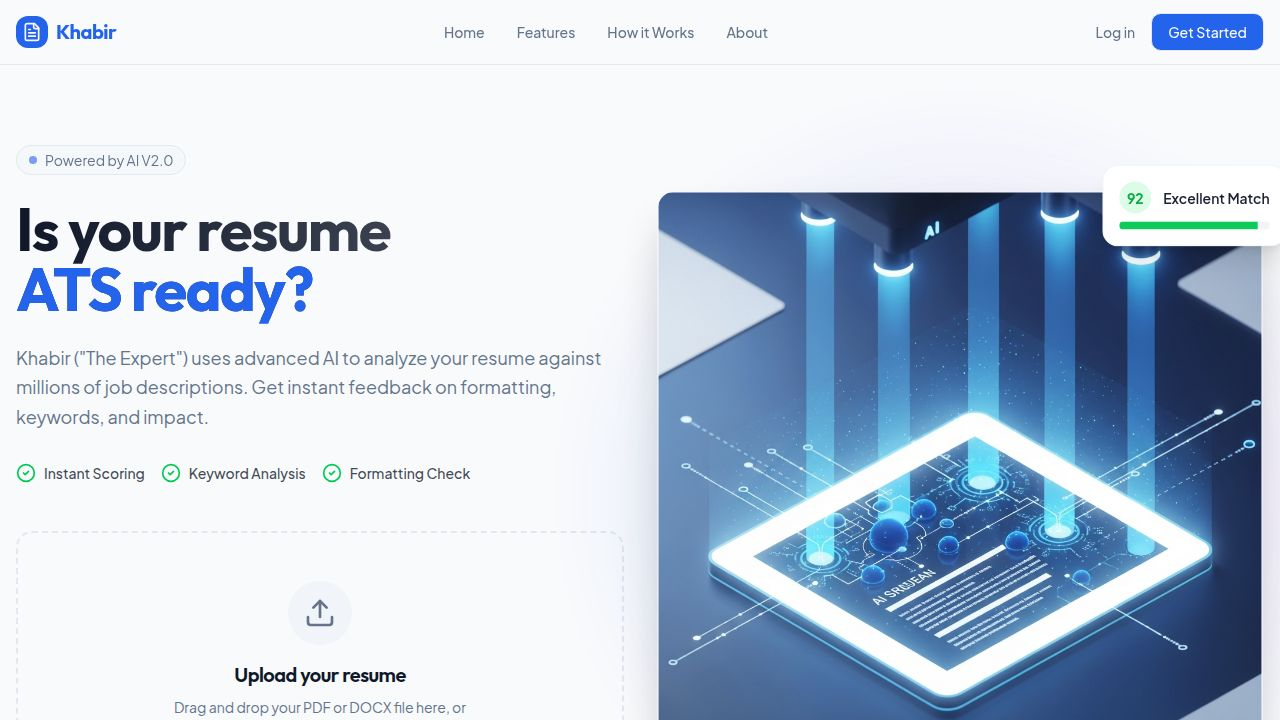
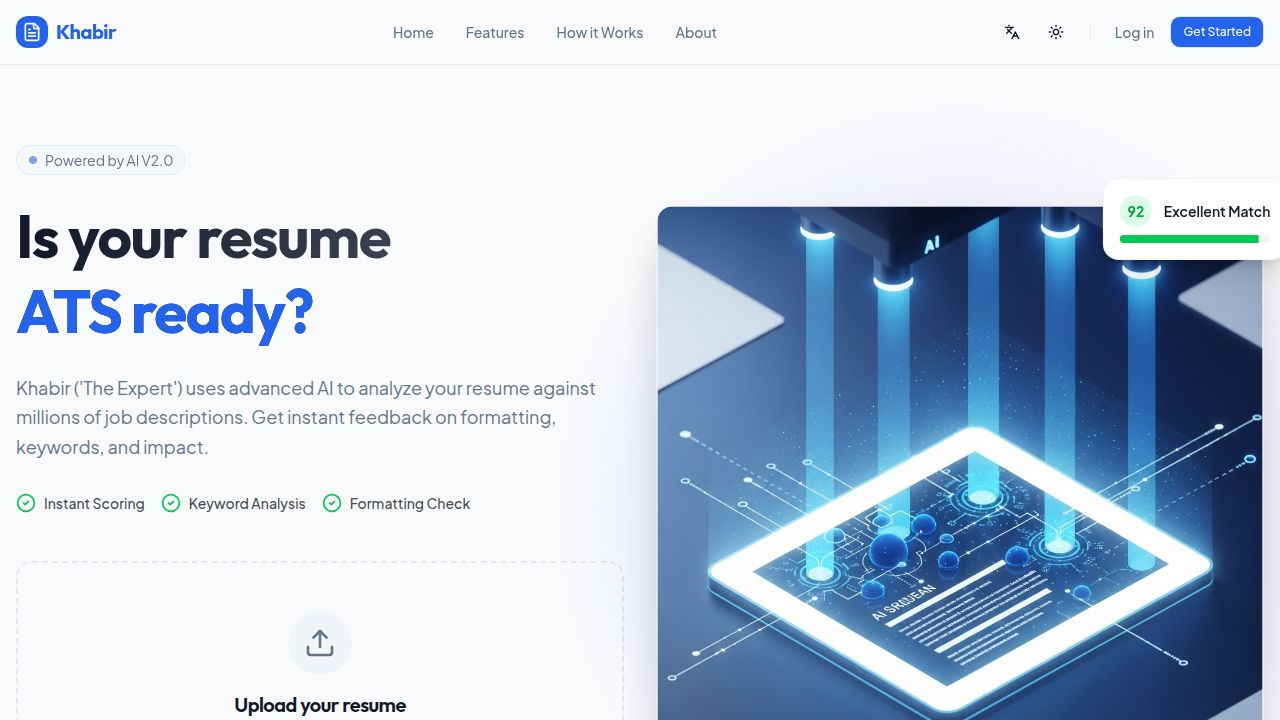
Add Arabic language support and RTL layout to the application
Implement comprehensive Arabic translations and Right-to-Left (RTL) layout adjustments across the Hero section, UploadZone component, and Home page, including dynamic language switching via a Navbar element.

Replit-Commit-Author: Agent
Replit-Commit-Session-Id: d67fe4a0-173e-436e-bb5b-6a13e077fa2e
Replit-Commit-Checkpoint-Type: full_checkpoint
Replit-Commit-Event-Id: 9b612d17-e10b-492f-8f70-dd483882ac61
Replit-Commit-Screenshot-Url: https://storage.googleapis.com/screenshot-production-us-central1/b7c34ca0-cc9a-4a40-aabc-a2c4bbe87384/d67fe4a0-173e-436e-bb5b-6a13e077fa2e/ZdRiNGw
Replit-Helium-Checkpoint-Created: true

diff --git a/client/src/pages/Home.tsx b/client/src/pages/Home.tsx
@@ -1,20 +1,46 @@
 import { Navbar } from "@/components/layout/Navbar";
 import { Hero } from "@/components/home/Hero";
 import { FileCheck, Zap, Target } from "lucide-react";
+import { useEffect, useState } from "react";
 
 export default function Home() {
+  const [isRtl, setIsRtl] = useState(false);
+
+  // Listen for language changes via document attribute
+  useEffect(() => {
+    const observer = new MutationObserver((mutations) => {
+      mutations.forEach((mutation) => {
+        if (mutation.type === 'attributes' && mutation.attributeName === 'dir') {
+          setIsRtl(document.documentElement.dir === 'rtl');
+        }
+      });
+    });
+
+    observer.observe(document.documentElement, { attributes: true });
+    setIsRtl(document.documentElement.dir === 'rtl');
+    
+    return () => observer.disconnect();
+  }, []);
+
   return (
     <div className="min-h-screen bg-background font-sans selection:bg-primary/20">
       <Navbar />
       
       <main>
-        <Hero />
+        <Hero key={isRtl ? 'rtl' : 'ltr'} />
         
         <section id="features" className="py-24 bg-muted/30">
           <div className="container px-4 mx-auto">
             <div className="text-center max-w-2xl mx-auto mb-16">
-              <h2 className="text-3xl font-heading font-bold mb-4">Why use Khabir?</h2>
-              <p className="text-muted-foreground">Stop guessing what recruiters want. Our AI analyzes your resume like an expert hiring manager.</p>
+              <h2 className="text-3xl font-heading font-bold mb-4">
+                {isRtl ? "لماذا تستخدم خبير؟" : "Why use Khabir?"}
+              </h2>
+              <p className="text-muted-foreground">
+                {isRtl 
+                  ? "توقف عن التخمين. يقوم ذكاؤنا الاصطناعي بتحليل سيرتك الذاتية تماماً مثل خبراء التوظيف."
+                  : "Stop guessing what recruiters want. Our AI analyzes your resume like an expert hiring manager."
+                }
+              </p>
             </div>
 
             <div className="grid md:grid-cols-3 gap-8">
@@ -22,24 +48,39 @@ export default function Home() {
                 <div className="h-12 w-12 rounded-lg bg-blue-100 text-blue-600 flex items-center justify-center mb-6">
                   <Zap className="h-6 w-6" />
                 </div>
-                <h3 className="text-xl font-bold mb-3">Instant Feedback</h3>
-                <p className="text-muted-foreground leading-relaxed">Get a detailed score and actionable feedback in seconds, not days.</p>
+                <h3 className="text-xl font-bold mb-3">{isRtl ? "تغذية راجعة فورية" : "Instant Feedback"}</h3>
+                <p className="text-muted-foreground leading-relaxed">
+                  {isRtl 
+                    ? "احصل على نتيجة مفصلة ونصائح قابلة للتنفيذ في ثوانٍ معدودة."
+                    : "Get a detailed score and actionable feedback in seconds, not days."
+                  }
+                </p>
               </div>
 
               <div className="bg-card p-8 rounded-2xl border shadow-sm hover:shadow-md transition-shadow">
                 <div className="h-12 w-12 rounded-lg bg-teal-100 text-teal-600 flex items-center justify-center mb-6">
                   <Target className="h-6 w-6" />
                 </div>
-                <h3 className="text-xl font-bold mb-3">ATS Optimization</h3>
-                <p className="text-muted-foreground leading-relaxed">Ensure your resume passes the automated filters used by 99% of Fortune 500 companies.</p>
+                <h3 className="text-xl font-bold mb-3">{isRtl ? "تحسين للـ ATS" : "ATS Optimization"}</h3>
+                <p className="text-muted-foreground leading-relaxed">
+                  {isRtl 
+                    ? "تأكد من تجاوز سيرتك الذاتية للفلاتر الآلية التي تستخدمها 99% من الشركات الكبرى."
+                    : "Ensure your resume passes the automated filters used by 99% of Fortune 500 companies."
+                  }
+                </p>
               </div>
 
               <div className="bg-card p-8 rounded-2xl border shadow-sm hover:shadow-md transition-shadow">
                 <div className="h-12 w-12 rounded-lg bg-purple-100 text-purple-600 flex items-center justify-center mb-6">
                   <FileCheck className="h-6 w-6" />
                 </div>
-                <h3 className="text-xl font-bold mb-3">Smart Suggestions</h3>
-                <p className="text-muted-foreground leading-relaxed">Our AI rewrites your bullet points to maximize impact and highlight your achievements.</p>
+                <h3 className="text-xl font-bold mb-3">{isRtl ? "اقتراحات ذكية" : "Smart Suggestions"}</h3>
+                <p className="text-muted-foreground leading-relaxed">
+                  {isRtl 
+                    ? "يعيد ذكاؤنا الاصطناعي صياغة نقاط خبرتك لتحقيق أقصى قدر من التأثير."
+                    : "Our AI rewrites your bullet points to maximize impact and highlight your achievements."
+                  }
+                </p>
               </div>
             </div>
           </div>
@@ -49,12 +90,12 @@ export default function Home() {
       <footer className="bg-card border-t py-12">
         <div className="container px-4 mx-auto flex flex-col md:flex-row justify-between items-center gap-6">
           <div className="text-sm text-muted-foreground">
-            © 2026 Khabir. All rights reserved.
+            {isRtl ? "© 2026 خبير. جميع الحقوق محفوظة." : "© 2026 Khabir. All rights reserved."}
           </div>
           <div className="flex gap-6 text-sm font-medium text-muted-foreground">
-            <a href="#" className="hover:text-foreground">Privacy</a>
-            <a href="#" className="hover:text-foreground">Terms</a>
-            <a href="#" className="hover:text-foreground">Contact</a>
+            <a href="#" className="hover:text-foreground">{isRtl ? "الخصوصية" : "Privacy"}</a>
+            <a href="#" className="hover:text-foreground">{isRtl ? "الشروط" : "Terms"}</a>
+            <a href="#" className="hover:text-foreground">{isRtl ? "اتصل بنا" : "Contact"}</a>
           </div>
         </div>
       </footer>

diff --git a/client/src/components/home/Hero.tsx b/client/src/components/home/Hero.tsx
@@ -1,10 +1,12 @@
 import { Button } from "@/components/ui/button";
 import { UploadZone } from "./UploadZone";
 import HeroImage from "@/assets/hero-analysis.png";
-import { ArrowRight, CheckCircle2 } from "lucide-react";
+import { CheckCircle2 } from "lucide-react";
 import { motion } from "framer-motion";
 
 export function Hero() {
+  const isRtl = document.documentElement.dir === "rtl";
+
   return (
     <section className="relative overflow-hidden pt-12 pb-24 lg:pt-20 lg:pb-32">
       <div className="container px-4 mx-auto">
@@ -18,30 +20,42 @@ export function Hero() {
             >
               <div className="inline-flex items-center gap-2 rounded-full border bg-muted/50 px-3 py-1 text-sm text-muted-foreground mb-6 backdrop-blur-sm">
                 <span className="flex h-2 w-2 rounded-full bg-primary animate-pulse"></span>
-                Powered by AI V2.0
+                {isRtl ? "مدعوم بالذكاء الاصطناعي V2.0" : "Powered by AI V2.0"}
               </div>
               
-              <h1 className="font-heading text-4xl font-bold tracking-tight sm:text-6xl mb-6 bg-gradient-to-r from-foreground to-foreground/70 bg-clip-text text-transparent">
-                Is your resume <br />
-                <span className="text-primary">ATS ready?</span>
+              <h1 className="font-heading text-4xl font-bold tracking-tight sm:text-6xl mb-6 bg-gradient-to-r from-foreground to-foreground/70 bg-clip-text text-transparent leading-tight">
+                {isRtl ? (
+                  <>
+                    هل سيرتك الذاتية <br />
+                    <span className="text-primary">جاهزة للـ ATS؟</span>
+                  </>
+                ) : (
+                  <>
+                    Is your resume <br />
+                    <span className="text-primary">ATS ready?</span>
+                  </>
+                )}
               </h1>
               
               <p className="text-lg text-muted-foreground mb-8 leading-relaxed">
-                Khabir ("The Expert") uses advanced AI to analyze your resume against millions of job descriptions. Get instant feedback on formatting, keywords, and impact.
+                {isRtl 
+                  ? "يستخدم 'خبير' تقنيات الذكاء الاصطناعي المتقدمة لتحليل سيرتك الذاتية مقابل ملايين الوظائف. احصل على تقييم فوري للتنسيق، والكلمات المفتاحية، والتأثير."
+                  : "Khabir ('The Expert') uses advanced AI to analyze your resume against millions of job descriptions. Get instant feedback on formatting, keywords, and impact."
+                }
               </p>
 
               <div className="flex flex-col sm:flex-row gap-4 mb-12">
                 <div className="flex items-center gap-2 text-sm font-medium text-foreground/80">
                   <CheckCircle2 className="h-5 w-5 text-green-500" />
-                  <span>Instant Scoring</span>
+                  <span>{isRtl ? "تقييم فوري" : "Instant Scoring"}</span>
                 </div>
                 <div className="flex items-center gap-2 text-sm font-medium text-foreground/80">
                   <CheckCircle2 className="h-5 w-5 text-green-500" />
-                  <span>Keyword Analysis</span>
+                  <span>{isRtl ? "تحليل الكلمات المفتاحية" : "Keyword Analysis"}</span>
                 </div>
                 <div className="flex items-center gap-2 text-sm font-medium text-foreground/80">
                   <CheckCircle2 className="h-5 w-5 text-green-500" />
-                  <span>Formatting Check</span>
+                  <span>{isRtl ? "فحص التنسيق" : "Formatting Check"}</span>
                 </div>
               </div>
             </motion.div>
@@ -64,15 +78,14 @@ export function Hero() {
               className="relative rounded-2xl shadow-2xl border border-white/10 w-full object-cover transform hover:scale-[1.02] transition-transform duration-500"
             />
             
-            {/* Floating Elements for depth */}
             <motion.div 
               animate={{ y: [0, -10, 0] }}
               transition={{ repeat: Infinity, duration: 4, ease: "easeInOut" }}
-              className="absolute -top-6 -right-6 bg-card p-4 rounded-xl shadow-xl border border-border/50 max-w-[200px]"
+              className={`absolute -top-6 ${isRtl ? '-left-6' : '-right-6'} bg-card p-4 rounded-xl shadow-xl border border-border/50 max-w-[200px]`}
             >
               <div className="flex items-center gap-3 mb-2">
                 <div className="h-8 w-8 rounded-full bg-green-100 flex items-center justify-center text-green-600 font-bold text-sm">92</div>
-                <div className="text-sm font-semibold">Excellent Match</div>
+                <div className="text-sm font-semibold">{isRtl ? "تطابق ممتاز" : "Excellent Match"}</div>
               </div>
               <div className="h-2 bg-muted rounded-full overflow-hidden">
                 <div className="h-full bg-green-500 w-[92%]" />
@@ -82,16 +95,14 @@ export function Hero() {
              <motion.div 
               animate={{ y: [0, 15, 0] }}
               transition={{ repeat: Infinity, duration: 5, ease: "easeInOut", delay: 1 }}
-              className="absolute -bottom-8 -left-8 bg-card p-4 rounded-xl shadow-xl border border-border/50"
+              className={`absolute -bottom-8 ${isRtl ? '-right-8' : '-left-8'} bg-card p-4 rounded-xl shadow-xl border border-border/50`}
             >
               <div className="flex items-center gap-3">
                 <div className="h-2 w-2 rounded-full bg-primary" />
-                <span className="text-sm font-medium">Scanning keywords...</span>
+                <span className="text-sm font-medium">{isRtl ? "جاري فحص الكلمات..." : "Scanning keywords..."}</span>
               </div>
             </motion.div>
-
           </motion.div>
-
         </div>
       </div>
     </section>

diff --git a/client/src/components/home/UploadZone.tsx b/client/src/components/home/UploadZone.tsx
@@ -1,9 +1,8 @@
-import { useCallback, useState } from 'react';
+import { useCallback, useState, useEffect } from 'react';
 import { useDropzone } from 'react-dropzone';
 import { useLocation } from 'wouter';
-import { Upload, FileText, CheckCircle, AlertCircle, Loader2 } from 'lucide-react';
+import { Upload, FileText, CheckCircle, Loader2 } from 'lucide-react';
 import { motion, AnimatePresence } from 'framer-motion';
-import { Button } from '@/components/ui/button';
 import { Progress } from '@/components/ui/progress';
 import { useToast } from '@/hooks/use-toast';
 
@@ -12,6 +11,7 @@ export function UploadZone() {
   const [uploadProgress, setUploadProgress] = useState(0);
   const [, setLocation] = useLocation();
   const { toast } = useToast();
+  const isRtl = document.documentElement.dir === "rtl";
 
   const onDrop = useCallback((acceptedFiles: File[]) => {
     const file = acceptedFiles[0];
@@ -19,8 +19,8 @@ export function UploadZone() {
 
     if (file.type !== 'application/pdf' && file.type !== 'application/vnd.openxmlformats-officedocument.wordprocessingml.document') {
       toast({
-        title: "Invalid file type",
-        description: "Please upload a PDF or DOCX file.",
+        title: isRtl ? "نوع ملف غير صالح" : "Invalid file type",
+        description: isRtl ? "يرجى رفع ملف PDF أو DOCX فقط." : "Please upload a PDF or DOCX file.",
         variant: "destructive"
       });
       return;
@@ -28,7 +28,6 @@ export function UploadZone() {
 
     setIsUploading(true);
     
-    // Simulate upload progress
     let progress = 0;
     const interval = setInterval(() => {
       progress += 5;
@@ -42,7 +41,7 @@ export function UploadZone() {
       }
     }, 100);
 
-  }, [setLocation, toast]);
+  }, [setLocation, toast, isRtl]);
 
   const { getRootProps, getInputProps, isDragActive, acceptedFiles } = useDropzone({
     onDrop,
@@ -79,10 +78,16 @@ export function UploadZone() {
                 
                 <div className="space-y-2">
                   <h3 className="text-xl font-heading font-semibold">
-                    {isDragActive ? "Drop your resume here" : "Upload your resume"}
+                    {isDragActive 
+                      ? (isRtl ? "ضع سيرتك الذاتية هنا" : "Drop your resume here") 
+                      : (isRtl ? "ارفع سيرتك الذاتية" : "Upload your resume")
+                    }
                   </h3>
                   <p className="text-muted-foreground max-w-xs mx-auto text-sm">
-                    Drag and drop your PDF or DOCX file here, or click to browse.
+                    {isRtl 
+                      ? "اسحب وأسقط ملف PDF أو DOCX هنا، أو انقر للتصفح."
+                      : "Drag and drop your PDF or DOCX file here, or click to browse."
+                    }
                   </p>
                 </div>
 
@@ -97,7 +102,8 @@ export function UploadZone() {
           <motion.div
             initial={{ opacity: 0, scale: 0.95 }}
             animate={{ opacity: 1, scale: 1 }}
-            className="rounded-2xl border bg-card p-8 shadow-lg"
+            className="rounded-2xl border bg-card p-8 shadow-lg text-left"
+            dir="ltr" // Keep upload status in LTR for technical consistency or handle RTL specifically
           >
             <div className="flex items-center gap-4 mb-6">
               <div className="h-12 w-12 rounded-lg bg-primary/10 flex items-center justify-center text-primary">
@@ -105,21 +111,23 @@ export function UploadZone() {
               </div>
               <div className="flex-1 min-w-0">
                 <h4 className="font-semibold truncate">{acceptedFiles[0]?.name}</h4>
-                <p className="text-sm text-muted-foreground">Analyzing structure & keywords...</p>
+                <p className="text-sm text-muted-foreground">
+                  {isRtl ? "جاري تحليل الهيكل والكلمات..." : "Analyzing structure & keywords..."}
+                </p>
               </div>
               <Loader2 className="h-5 w-5 animate-spin text-muted-foreground" />
             </div>
             
             <div className="space-y-2">
               <div className="flex justify-between text-xs font-medium text-muted-foreground">
-                <span>Processing</span>
+                <span>{isRtl ? "جاري المعالجة" : "Processing"}</span>
                 <span>{uploadProgress}%</span>
               </div>
               <Progress value={uploadProgress} className="h-2" />
             </div>
 
             <div className="mt-8 grid grid-cols-3 gap-4">
-               {['Parsing Text', 'ATS Check', 'Skill Gap Analysis'].map((step, i) => (
+               {[(isRtl ? 'تحليل النص' : 'Parsing Text'), (isRtl ? 'فحص ATS' : 'ATS Check'), (isRtl ? 'تحليل المهارات' : 'Skill Gap Analysis')].map((step, i) => (
                  <div key={step} className="flex flex-col items-center gap-2 text-center">
                    <div className={`h-8 w-8 rounded-full flex items-center justify-center transition-colors duration-500 ${
                      uploadProgress > (i * 30 + 30) ? 'bg-green-100 text-green-600' : 'bg-muted text-muted-foreground'
